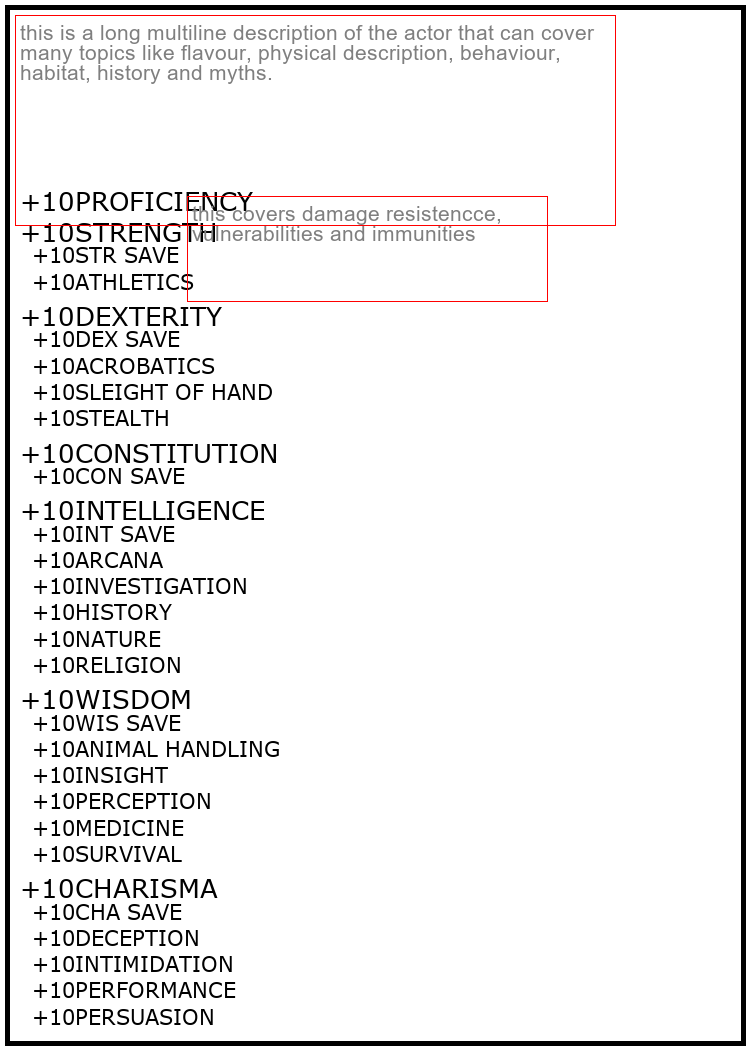
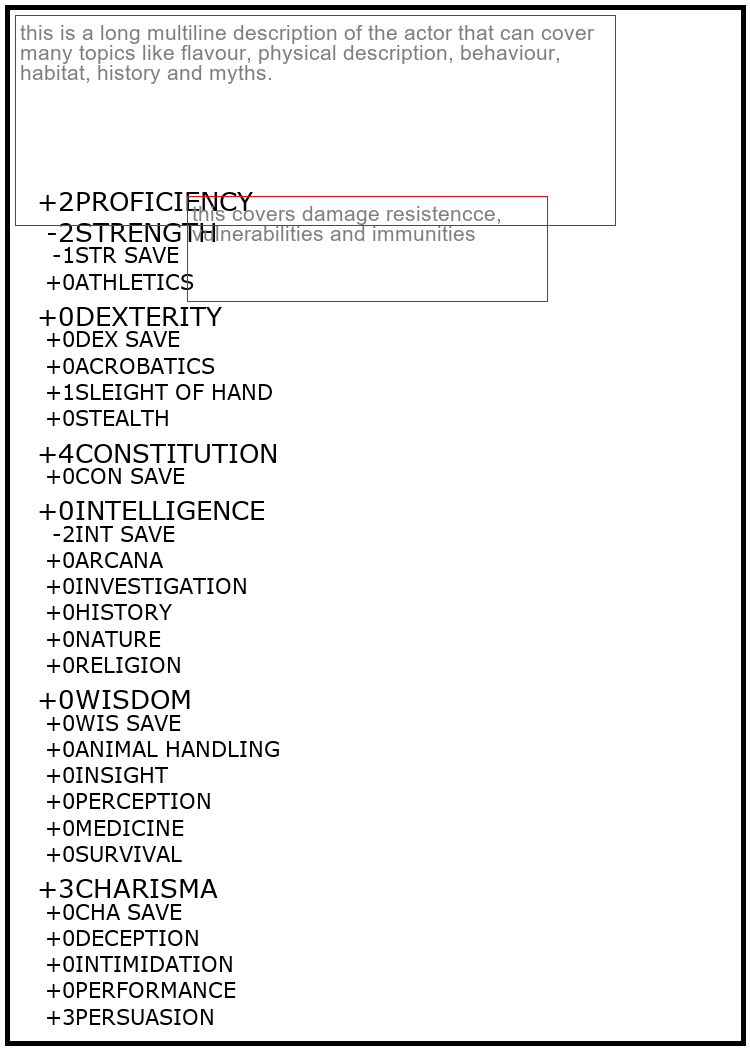
now shows properly back attribute values

Changed region(s): [[0.0307, 0.1829, 0.1227, 0.9752]]

diff --git a/src/lib/cl_generator.py b/src/lib/cl_generator.py
@@ -17,7 +17,7 @@ import PIL.ImageDraw as draw
 import PIL.ImageFont as font
 
 from lib.cl_utility_path import convert_to_path
-from lib.st_attribute_ability import St_attribute_ability
+#from lib.st_attribute_ability import St_attribute_ability
 from lib.st_image import St_image
 #this utility allows to draw a multiline text box onto an image
 from lib.cl_multiline_text import Cl_multiline_text
@@ -168,6 +168,7 @@ class Cl_npc_character_sheet_generator:
             w_pos_ppt: int = st_item.get("w_pos_ppt", 0)
             h_pos_ppt: int = st_item.get("h_pos_ppt", 0)
             h_font_ppt: int = st_item.get("h_font_ppt", 0)
+            n_value : int = st_item.get("n_value",-99)
             
             # Convert PPT values to pixels
             w_pos_px = w_size_px * w_pos_ppt / 1000
@@ -194,7 +195,10 @@ class Cl_npc_character_sheet_generator:
             # Add the header for the attribute or ability 
             cl_draw.text((w_cursor, h_cursor), s_text, fill=(0, 0, 0), font=cl_item_font)
             # Fetch the numerical value of attribute or ability
-            cl_draw.text((w_cursor, h_cursor), "+10", fill=(0, 0, 0), font=cl_item_font, anchor="ra")
+            if (n_value>=0):
+                cl_draw.text((w_cursor, h_cursor), f"+{n_value}", fill=(0, 0, 0), font=cl_item_font, anchor="ra")
+            else: 
+                cl_draw.text((w_cursor, h_cursor), f"{n_value}", fill=(0, 0, 0), font=cl_item_font, anchor="ra")
 
         for st_text_box in ast_text_boxes:
 
